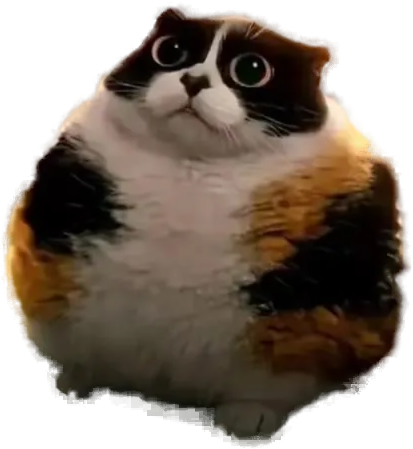
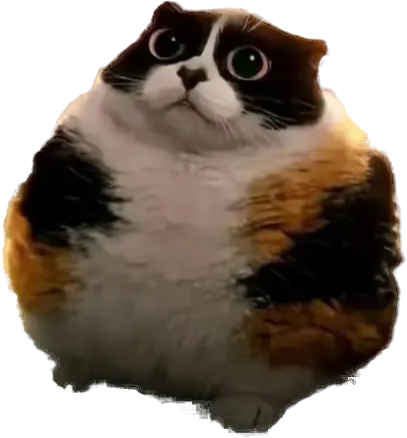
Убрал тёмный круг вокруг кота: чистка ореола + парение в воздухе

diff --git a/styles.css b/styles.css
@@ -99,13 +99,18 @@ html, body {
 .tap-button:active { transform: scale(.97); }
 .tap-glow {
   position: absolute; inset: 0; border-radius: 50%;
-  background: radial-gradient(circle, rgba(245,197,66,.28), rgba(245,197,66,0) 65%);
-  box-shadow: 0 0 60px rgba(245,197,66,.25);
+  background: radial-gradient(circle, rgba(245,197,66,.16), rgba(245,197,66,0) 60%);
 }
 .cat-img {
   width: 100%; height: 100%; object-fit: contain;
   pointer-events: none;
-  filter: drop-shadow(0 14px 30px rgba(0,0,0,.55));
+  /* лёгкое свечение + мягкая тень снизу — кот будто парит в воздухе */
+  filter: drop-shadow(0 22px 16px rgba(0,0,0,.30)) drop-shadow(0 0 18px rgba(245,197,66,.18));
+  animation: floatCat 3.5s ease-in-out infinite;
+}
+@keyframes floatCat {
+  0%, 100% { transform: translateY(0); }
+  50% { transform: translateY(-10px); }
 }
 .cat-fallback { font-size: 160px; }
 

diff --git a/banner.py b/banner.py
@@ -1,0 +1,78 @@
+# Баннер 640x360 для Catness Coin
+from PIL import Image, ImageDraw, ImageFont, ImageFilter
+import os
+
+W, H = 640, 360
+os.makedirs("assets", exist_ok=True)
+
+# --- Фон: диагональный градиент тёмный -> тёплый ---
+bg = Image.new("RGB", (W, H), (15, 15, 20))
+top = (26, 22, 40)      # фиолетово-тёмный
+bot = (32, 24, 12)      # тёплый тёмный
+for y in range(H):
+    t = y / H
+    r = int(top[0] + (bot[0]-top[0]) * t)
+    g = int(top[1] + (bot[1]-top[1]) * t)
+    b = int(top[2] + (bot[2]-top[2]) * t)
+    for_line = (r, g, b)
+    ImageDraw.Draw(bg).line([(0, y), (W, y)], fill=for_line)
+
+draw = ImageDraw.Draw(bg, "RGBA")
+
+# --- Золотое свечение справа за котом ---
+glow = Image.new("RGBA", (W, H), (0, 0, 0, 0))
+gd = ImageDraw.Draw(glow)
+gd.ellipse([330, 40, 660, 370], fill=(245, 197, 66, 90))
+glow = glow.filter(ImageFilter.GaussianBlur(60))
+bg = Image.alpha_composite(bg.convert("RGBA"), glow)
+draw = ImageDraw.Draw(bg, "RGBA")
+
+# --- Декоративные монетки ---
+def coin(cx, cy, r, a=255):
+    draw.ellipse([cx-r, cy-r, cx+r, cy+r], fill=(245, 197, 66, a))
+    draw.ellipse([cx-r+r//3, cy-r+r//4, cx+r//4, cy+r//4], fill=(255, 217, 122, a))
+coin(70, 70, 16, 180)
+coin(40, 250, 11, 150)
+coin(300, 300, 13, 160)
+
+# --- Кот справа ---
+cat = Image.open("assets/cat.png").convert("RGBA")
+ch = 300
+cw = int(cat.width * ch / cat.height)
+cat = cat.resize((cw, ch), Image.LANCZOS)
+# мягкая тень под котом
+shadow = Image.new("RGBA", (W, H), (0,0,0,0))
+sd = ImageDraw.Draw(shadow)
+sd.ellipse([W-cw-20, H-70, W-20, H-20], fill=(0,0,0,140))
+shadow = shadow.filter(ImageFilter.GaussianBlur(14))
+bg = Image.alpha_composite(bg, shadow)
+bg.alpha_composite(cat, (W - cw - 10, H - ch - 5))
+draw = ImageDraw.Draw(bg, "RGBA")
+
+# --- Шрифты ---
+def font(size, bold=True):
+    path = "C:/Windows/Fonts/arialbd.ttf" if bold else "C:/Windows/Fonts/arial.ttf"
+    return ImageFont.truetype(path, size)
+
+GOLD = (245, 197, 66)
+WHITE = (255, 255, 255)
+DIM = (180, 180, 195)
+
+# Заголовок
+draw.text((44, 96), "CATNESS", font=font(64), fill=WHITE)
+draw.text((44, 162), "COIN", font=font(64), fill=GOLD)
+
+# Подзаголовок
+draw.text((46, 238), "Тапай кота — качай Котость", font=font(20, False), fill=DIM)
+
+# Бейдж "TAP TO EARN"
+bx, by = 46, 274
+btext = "TAP TO EARN"
+f = font(16)
+tb = draw.textbbox((0,0), btext, font=f)
+tw, th = tb[2]-tb[0], tb[3]-tb[1]
+draw.rounded_rectangle([bx, by, bx+tw+28, by+th+16], radius=14, fill=GOLD)
+draw.text((bx+14, by+6), btext, font=f, fill=(20, 18, 12))
+
+bg.convert("RGB").save("assets/banner.png", quality=95)
+print("OK -> assets/banner.png", bg.size)

diff --git a/clean_alpha.py b/clean_alpha.py
@@ -1,0 +1,21 @@
+# Чистим слабый полупрозрачный ореол вокруг кота
+from PIL import Image
+import numpy as np
+
+img = Image.open("assets/cat.png").convert("RGBA")
+arr = np.array(img).astype(np.float32)
+a = arr[:, :, 3]
+
+# Всё, что слабее 60 по альфе — это ореол/мусор -> полностью прозрачно
+a[a < 60] = 0
+# Плавно дожимаем полупрозрачные пиксели к непрозрачным (резче край, без серого гало)
+mask = (a >= 60) & (a < 200)
+a[mask] = np.clip((a[mask] - 60) / (200 - 60) * 255, 0, 255)
+arr[:, :, 3] = a
+
+out = Image.fromarray(arr.astype(np.uint8), "RGBA")
+bbox = out.getbbox()
+if bbox:
+    out = out.crop(bbox)
+out.save("assets/cat.png")
+print("OK alpha cleaned ->", out.size)